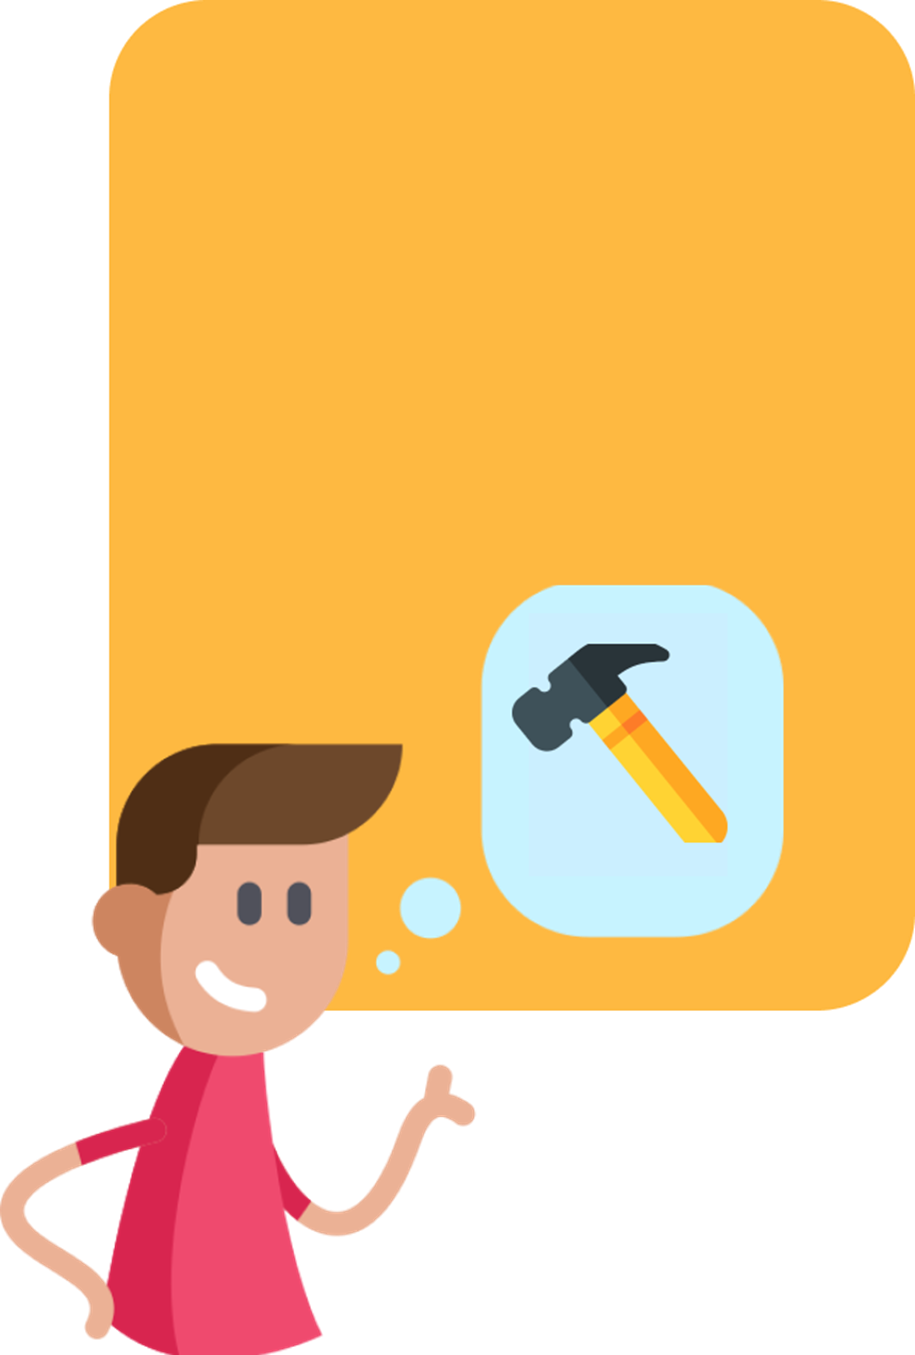
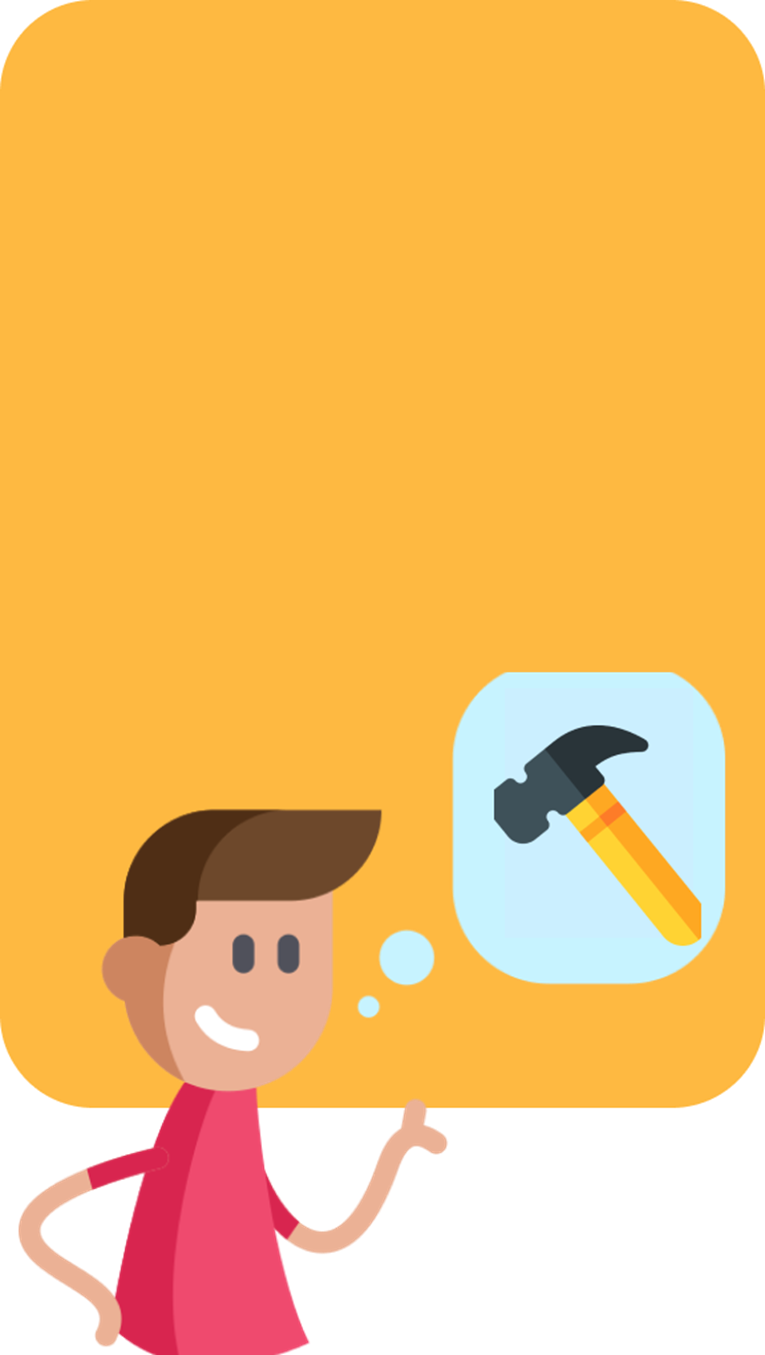
fixed landing and seed

diff --git a/app/assets/stylesheets/components/_landing.scss b/app/assets/stylesheets/components/_landing.scss
@@ -4,23 +4,27 @@
 
 .text-1{
   position: relative;
-  left: 30px;
+  left: 35px;
   top: -250px;
   z-index: 100;
 }
 
 .text-2{
   position: relative;
-  left: 35px;
-  top: -325px;
+  left: 55px;
+  top: -400px;
   width: 200px;
 }
 
 
 .text-3{
   position: relative;
-  left: 25px;
+  left: 50px;
   top: -350px;
   width: 200px;
   text-align: center
+}
+
+.landing-main-card{
+  height: fit-content !important;
 }

diff --git a/app/assets/stylesheets/components/_buttons.scss b/app/assets/stylesheets/components/_buttons.scss
@@ -40,7 +40,7 @@
     border-radius: 10px !important;
     padding: 10px 20px 10px 20px !important;
     background-color: #FFB414 !important;
-    margin-left: 45px !important;
+    margin-left: 60px !important;
 }
 
 .btn-black{
@@ -124,4 +124,8 @@
 
 .btn-reset {
   color: #ffaa00;
+}
+
+#my-add{
+  margin-left: auto;
 }

diff --git a/db/seeds.rb b/db/seeds.rb
@@ -7,23 +7,36 @@ puts "Database is clean!"
 
 puts "Generating users"
 
-@adresses = ['Rua Hilário de Gouvêia, Copacabana, Rio de Janeiro, RJ', 'R. Visc. de Pirajá, 580 - Ipanema, Rio de Janeiro, RJ', 'R. Real Grandeza, 219 - Botafogo, Rio de Janeiro, RJ', 'R. Barão de Lucena, 99, Botafogo, Rio de Janeiro, RJ', 'R. Evaristo da Veiga, 264, Centro, Rio de Janeiro, RJ', 'R. Miguel Lemos, 174, Copacabana, Rio de Janeiro, RJ', 'R. Oliveira Fausto, 17, Botafogo, Rio de Janeiro, RJ', 'R. Jardim Botânico, 702-758, Jardim Botânico, Rio de Janeiro, RJ', 'R. José Linhares, Leblon, Rio de Janeiro, RJ', 'Av. Atlântica, 4240, Copacabana, Rio de Janeiro, RJ']
-10.times do
-  User.create(
-    email: Faker::Internet.email,
-    password: Faker::Internet.password,
-    name: Faker::Name.name,
-    address: @adresses.pop,
-    phone: Faker::PhoneNumber.phone_number
+User.create(
+  email: "lucio@lucio",
+  password: "aaaaaa",
+  name: "Lucio Telles",
+  address: 'Rua Hilário de Gouvêia, Copacabana, Rio de Janeiro, RJ',
+  phone: Faker::PhoneNumber.phone_number
   )
-end
 
 User.create(
   email: "teste@teste",
   password: "aaaaaa",
-  name: "Marina",
+  name: "Marina Angeli",
   address: "R. Visc. de Pirajá, 142, rio de janeiro",
   phone: Faker::PhoneNumber.phone_number
+)
+
+User.create(
+  email: "raul@raul",
+  password: "aaaaaa",
+  name: "Raul Chagas",
+  address: 'R. José Linhares, Leblon, Rio de Janeiro, RJ',
+  phone: Faker::PhoneNumber.phone_number
+)
+
+User.create(
+email: "eysler@eysler",
+password: "aaaaaa",
+name: "Eysler Mara",
+address: "R. Oliveira Fausto, 17, Botafogo, Rio de Janeiro, RJ",
+phone: Faker::PhoneNumber.phone_number
 )
 
 @users = User.all
@@ -32,24 +45,154 @@ User.create(
   puts "#{user.email} - #{user.password} - #{user.name} - #{user.address} - #{user.phone}"
 end
 
-@users_id = []
-
-@users.each do |user|
-  @users_id << user.id
-end
 
 
-@tools = ['hammer', 'shovel', 'driller', 'handsaw', 'filer', 'wrench', 'stepladder', 'toolbox', 'plier', 'screwdriver']
-@tool_adresses = ['Rua Hilário de Gouvêia, Copacabana, Rio de Janeiro, RJ', 'R. Visc. de Pirajá, 580 - Ipanema, Rio de Janeiro, RJ', 'R. Real Grandeza, 219 - Botafogo, Rio de Janeiro, RJ', 'R. Barão de Lucena, 99, Botafogo, Rio de Janeiro, RJ', 'R. Evaristo da Veiga, 264, Centro, Rio de Janeiro, RJ', 'R. Miguel Lemos, 174, Copacabana, Rio de Janeiro, RJ', 'R. Oliveira Fausto, 17, Botafogo, Rio de Janeiro, RJ', 'R. Jardim Botânico, 702-758, Jardim Botânico, Rio de Janeiro, RJ', 'R. José Linhares, Leblon, Rio de Janeiro, RJ', 'Av. Atlântica, 4240, Copacabana, Rio de Janeiro, RJ']
-10.times do
-  Tool.create(
-    name: @tools.pop,
-    price: rand(1..200),
-    user_id: @users_id.sample,
-    rating: rand(1..5),
-    address: @tool_adresses.pop
-  )
-end
+@user = @users.sample
+@alicate_universal_8 = Tool.create(
+  name: "Alicate Universal 8",
+  price: rand(1..200),
+  user: @user,
+  rating: rand(1..5),
+  address: @user.address
+)
+
+@alicate_universal_8.photos.attach(io: File.open(Rails.root.join('app/assets/images/Fotos das ferramentas/Alicate universal 8/alicate1.jpg')), filename: "alicate1.jpg")
+@alicate_universal_8.photos.attach(io: File.open(Rails.root.join('app/assets/images/Fotos das ferramentas/Alicate universal 8/alicate2.jpg')), filename: "alicate2.jpg")
+@alicate_universal_8.photos.attach(io: File.open(Rails.root.join('app/assets/images/Fotos das ferramentas/Alicate universal 8/alicate3.jpg')), filename: "alicate3.jpg")
+@alicate_universal_8.photos.attach(io: File.open(Rails.root.join('app/assets/images/Fotos das ferramentas/Alicate universal 8/alicate4.jpg')), filename: "alicate4.jpg")
+
+
+
+@user = @users.sample
+@caixa_sanfonada = Tool.create(
+  name: "Caixa Sanfonada",
+  price: rand(1..200),
+  user: @user,
+  rating: rand(1..5),
+  address: @user.address
+)
+
+@caixa_sanfonada.photos.attach(io: File.open(Rails.root.join('app/assets/images/Fotos das ferramentas/Caixa Sanfonada/00025.jpg')), filename: "caixa_sanfonada1.jpg")
+@caixa_sanfonada.photos.attach(io: File.open(Rails.root.join('app/assets/images/Fotos das ferramentas/Caixa Sanfonada/00026.jpg')), filename: "caixa_sanfonada2.jpg")
+@caixa_sanfonada.photos.attach(io: File.open(Rails.root.join('app/assets/images/Fotos das ferramentas/Caixa Sanfonada/00027.jpg')), filename: "caixa_sanfonada3.jpg")
+@caixa_sanfonada.photos.attach(io: File.open(Rails.root.join('app/assets/images/Fotos das ferramentas/Caixa Sanfonada/00028.jpg')), filename: "caixa_sanfonada4.jpg")
+
+
+
+
+@user = @users.sample
+@chave_de_fenda_cruzada = Tool.create(
+  name: "Caixa Sanfonada",
+  price: rand(1..200),
+  user: @user,
+  rating: rand(1..5),
+  address: @user.address
+)
+
+@chave_de_fenda_cruzada.photos.attach(io: File.open(Rails.root.join('app/assets/images/Fotos das ferramentas/chave de fenda cruzada/00017.jpg')), filename: "chave_de_fenda_cruzada1.jpg")
+@chave_de_fenda_cruzada.photos.attach(io: File.open(Rails.root.join('app/assets/images/Fotos das ferramentas/chave de fenda cruzada/00018.jpg')), filename: "chave_de_fenda_cruzada2.jpg")
+@chave_de_fenda_cruzada.photos.attach(io: File.open(Rails.root.join('app/assets/images/Fotos das ferramentas/chave de fenda cruzada/00019.jpg')), filename: "chave_de_fenda_cruzada3.jpg")
+@chave_de_fenda_cruzada.photos.attach(io: File.open(Rails.root.join('app/assets/images/Fotos das ferramentas/chave de fenda cruzada/00020.jpg')), filename: "chave_de_fenda_cruzada4.jpg")
+
+
+
+
+@user = @users.sample
+@compressor_de_ar = Tool.create(
+  name: "Compressor de ar",
+  price: rand(1..200),
+  user: @user,
+  rating: rand(1..5),
+  address: @user.address
+)
+
+@compressor_de_ar.photos.attach(io: File.open(Rails.root.join('app/assets/images/Fotos das ferramentas/compressor de ar/00029.jpg')), filename: "compressor_de_ar1.jpg")
+@compressor_de_ar.photos.attach(io: File.open(Rails.root.join('app/assets/images/Fotos das ferramentas/compressor de ar/00030.jpg')), filename: "compressor_de_ar2.jpg")
+@compressor_de_ar.photos.attach(io: File.open(Rails.root.join('app/assets/images/Fotos das ferramentas/compressor de ar/00031.jpg')), filename: "compressor_de_ar3.jpg")
+@compressor_de_ar.photos.attach(io: File.open(Rails.root.join('app/assets/images/Fotos das ferramentas/compressor de ar/00032.jpg')), filename: "compressor_de_ar4.jpg")
+
+
+@user = @users.sample
+@esmerilhadeira = Tool.create(
+  name: "Esmerilhadeira",
+  price: rand(1..200),
+  user: @user,
+  rating: rand(1..5),
+  address: @user.address
+)
+
+@esmerilhadeira.photos.attach(io: File.open(Rails.root.join('app/assets/images/Fotos das ferramentas/Esmerilhadeira/00037.jpg')), filename: "esmerilhadeira1.jpg")
+@esmerilhadeira.photos.attach(io: File.open(Rails.root.join('app/assets/images/Fotos das ferramentas/Esmerilhadeira/00038.jpg')), filename: "esmerilhadeira2.jpg")
+@esmerilhadeira.photos.attach(io: File.open(Rails.root.join('app/assets/images/Fotos das ferramentas/Esmerilhadeira/00039.jpg')), filename: "esmerilhadeira3.jpg")
+@esmerilhadeira.photos.attach(io: File.open(Rails.root.join('app/assets/images/Fotos das ferramentas/Esmerilhadeira/00040.jpg')), filename: "esmerilhadeira4.jpg")
+
+
+
+
+@user = @users.sample
+@grampo_carpinteiro = Tool.create(
+  name: "Grampo carpinteiro",
+  price: rand(1..200),
+  user: @user,
+  rating: rand(1..5),
+  address: @user.address
+)
+
+@grampo_carpinteiro.photos.attach(io: File.open(Rails.root.join('app/assets/images/Fotos das ferramentas/grampo carpinteiro/0005.jpg')), filename: "grampo_carpinteiro1.jpg")
+@grampo_carpinteiro.photos.attach(io: File.open(Rails.root.join('app/assets/images/Fotos das ferramentas/grampo carpinteiro/0006.jpg')), filename: "grampo_carpinteiro2.jpg")
+@grampo_carpinteiro.photos.attach(io: File.open(Rails.root.join('app/assets/images/Fotos das ferramentas/grampo carpinteiro/0007.jpg')), filename: "grampo_carpinteiro3.jpg")
+@grampo_carpinteiro.photos.attach(io: File.open(Rails.root.join('app/assets/images/Fotos das ferramentas/grampo carpinteiro/0008.jpg')), filename: "grampo_carpinteiro4.jpg")
+
+
+
+
+@user = @users.sample
+@inversora_de_solda = Tool.create(
+  name: "inversora de solda",
+  price: rand(1..200),
+  user: @user,
+  rating: rand(1..5),
+  address: @user.address
+)
+
+@inversora_de_solda.photos.attach(io: File.open(Rails.root.join('app/assets/images/Fotos das ferramentas/inversora de solda/00021.jpg')), filename: "inversora_de_solda1.jpg")
+@inversora_de_solda.photos.attach(io: File.open(Rails.root.join('app/assets/images/Fotos das ferramentas/inversora de solda/00022.jpg')), filename: "inversora_de_solda2.jpg")
+@inversora_de_solda.photos.attach(io: File.open(Rails.root.join('app/assets/images/Fotos das ferramentas/inversora de solda/00023.jpg')), filename: "inversora_de_solda3.jpg")
+@inversora_de_solda.photos.attach(io: File.open(Rails.root.join('app/assets/images/Fotos das ferramentas/inversora de solda/00024.jpg')), filename: "inversora_de_solda4.jpg")
+
+
+@user = @users.sample
+@marreta_oitavada = Tool.create(
+  name: "marreta oitavada",
+  price: rand(1..200),
+  user: @user,
+  rating: rand(1..5),
+  address: @user.address
+)
+
+@marreta_oitavada.photos.attach(io: File.open(Rails.root.join('app/assets/images/Fotos das ferramentas/marreta oitavada/0001.jpg')), filename: "marreta_oitavada1.jpg")
+@marreta_oitavada.photos.attach(io: File.open(Rails.root.join('app/assets/images/Fotos das ferramentas/marreta oitavada/0002.jpg')), filename: "marreta_oitavada2.jpg")
+@marreta_oitavada.photos.attach(io: File.open(Rails.root.join('app/assets/images/Fotos das ferramentas/marreta oitavada/0003.jpg')), filename: "marreta_oitavada3.jpg")
+@marreta_oitavada.photos.attach(io: File.open(Rails.root.join('app/assets/images/Fotos das ferramentas/marreta oitavada/0004.jpg')), filename: "marreta_oitavada4.jpg")
+
+
+
+
+@user = @users.sample
+@serrote = Tool.create(
+  name: "serrote",
+  price: rand(1..200),
+  user: @user,
+  rating: rand(1..5),
+  address: @user.address
+)
+
+@serrote.photos.attach(io: File.open(Rails.root.join('app/assets/images/Fotos das ferramentas/serrote/0009.jpg')), filename: "serrote1.jpg")
+@serrote.photos.attach(io: File.open(Rails.root.join('app/assets/images/Fotos das ferramentas/serrote/00010.jpg')), filename: "serrote2.jpg")
+@serrote.photos.attach(io: File.open(Rails.root.join('app/assets/images/Fotos das ferramentas/serrote/00011.jpg')), filename: "serrote3.jpg")
+@serrote.photos.attach(io: File.open(Rails.root.join('app/assets/images/Fotos das ferramentas/serrote/00012.jpg')), filename: "serrote4.jpg")
+
+
 
 @tools = Tool.all
 
